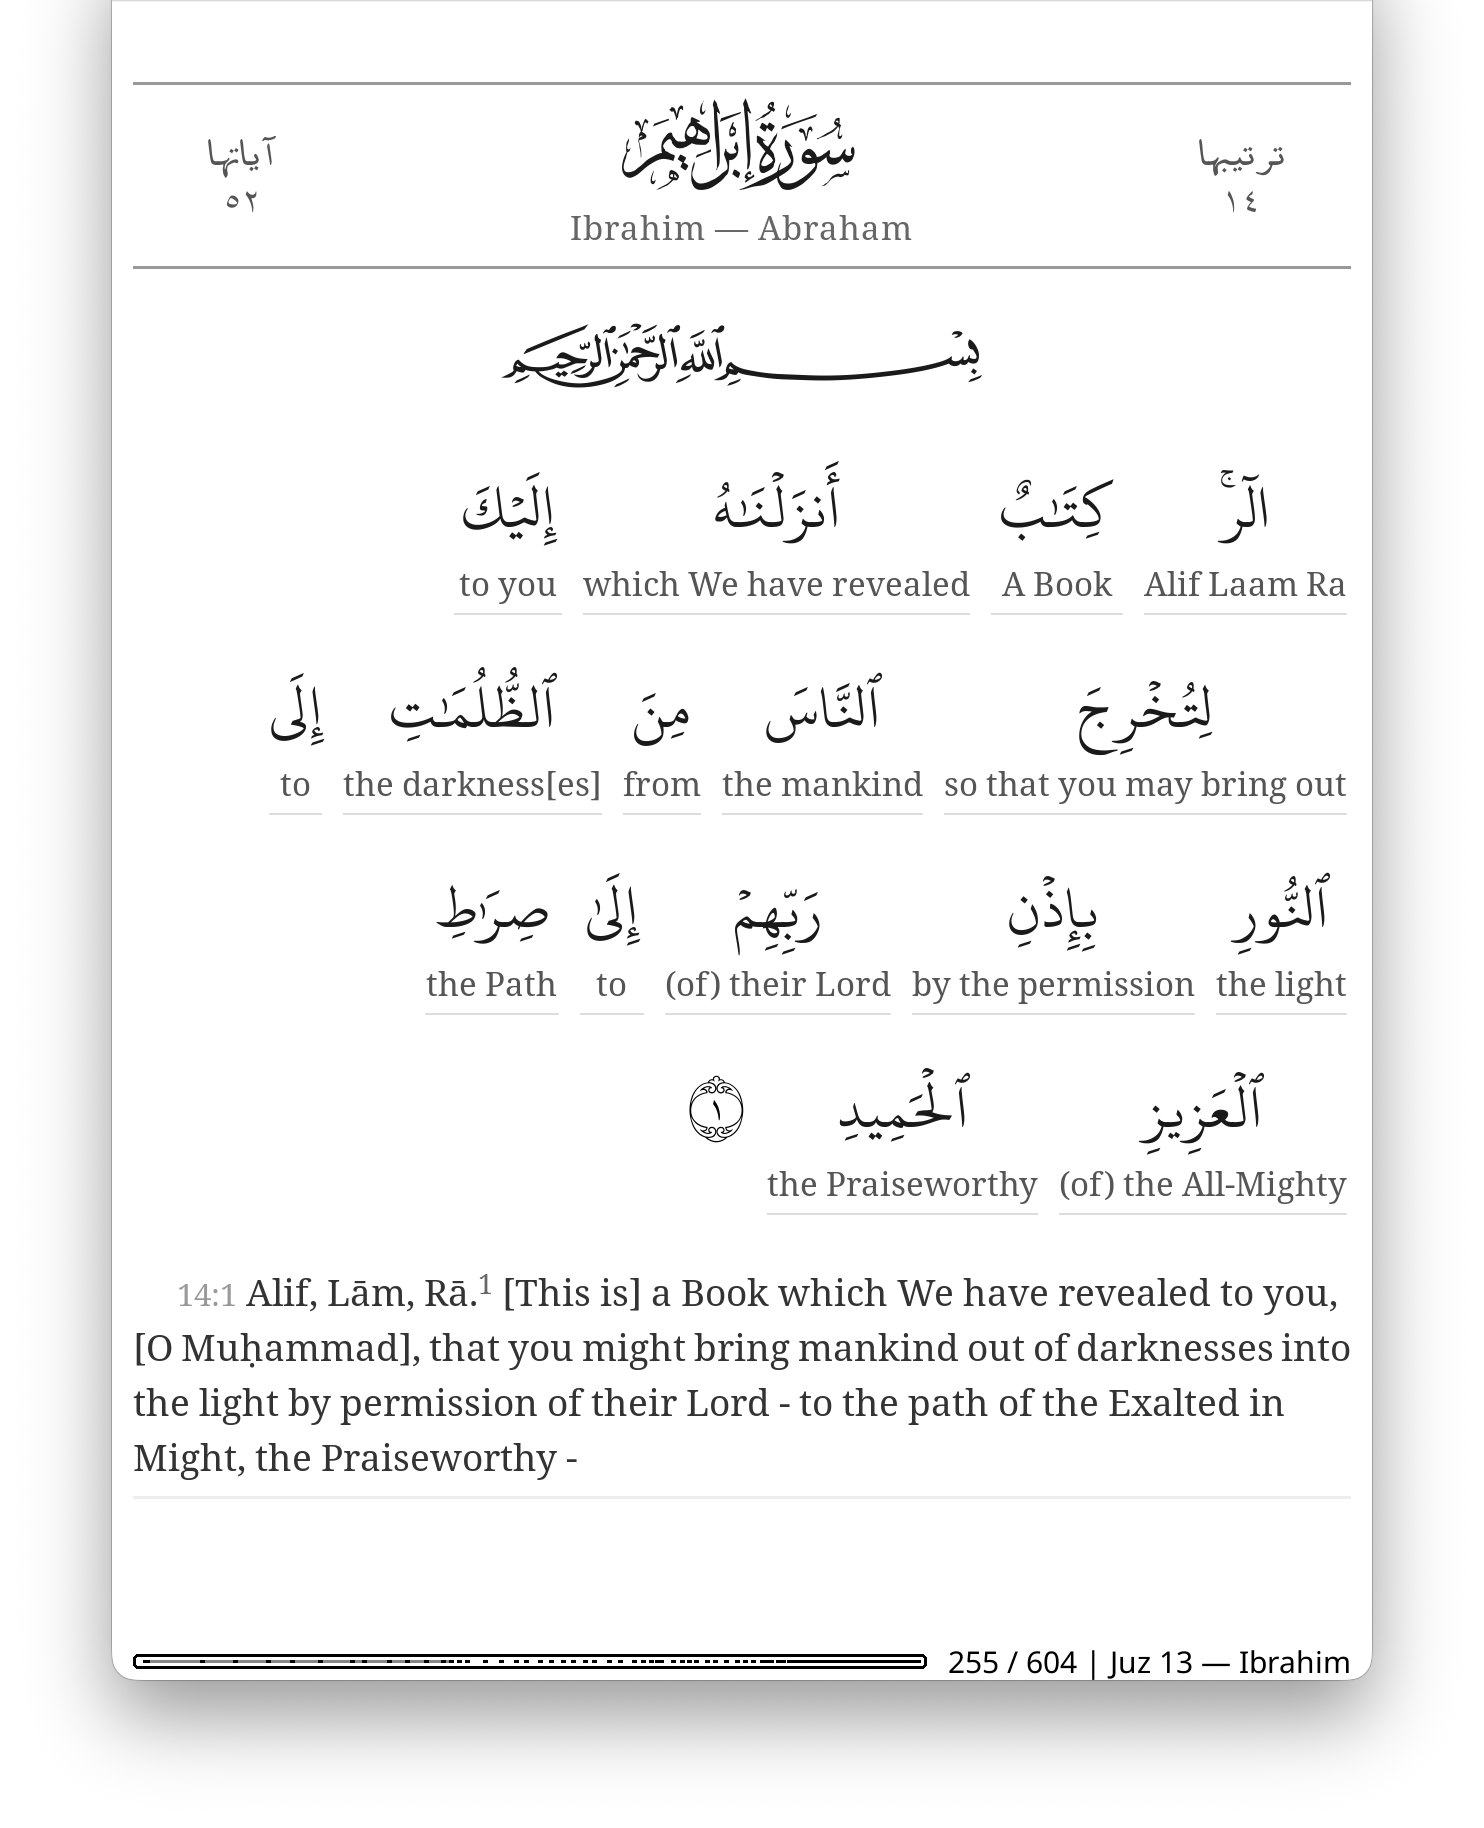
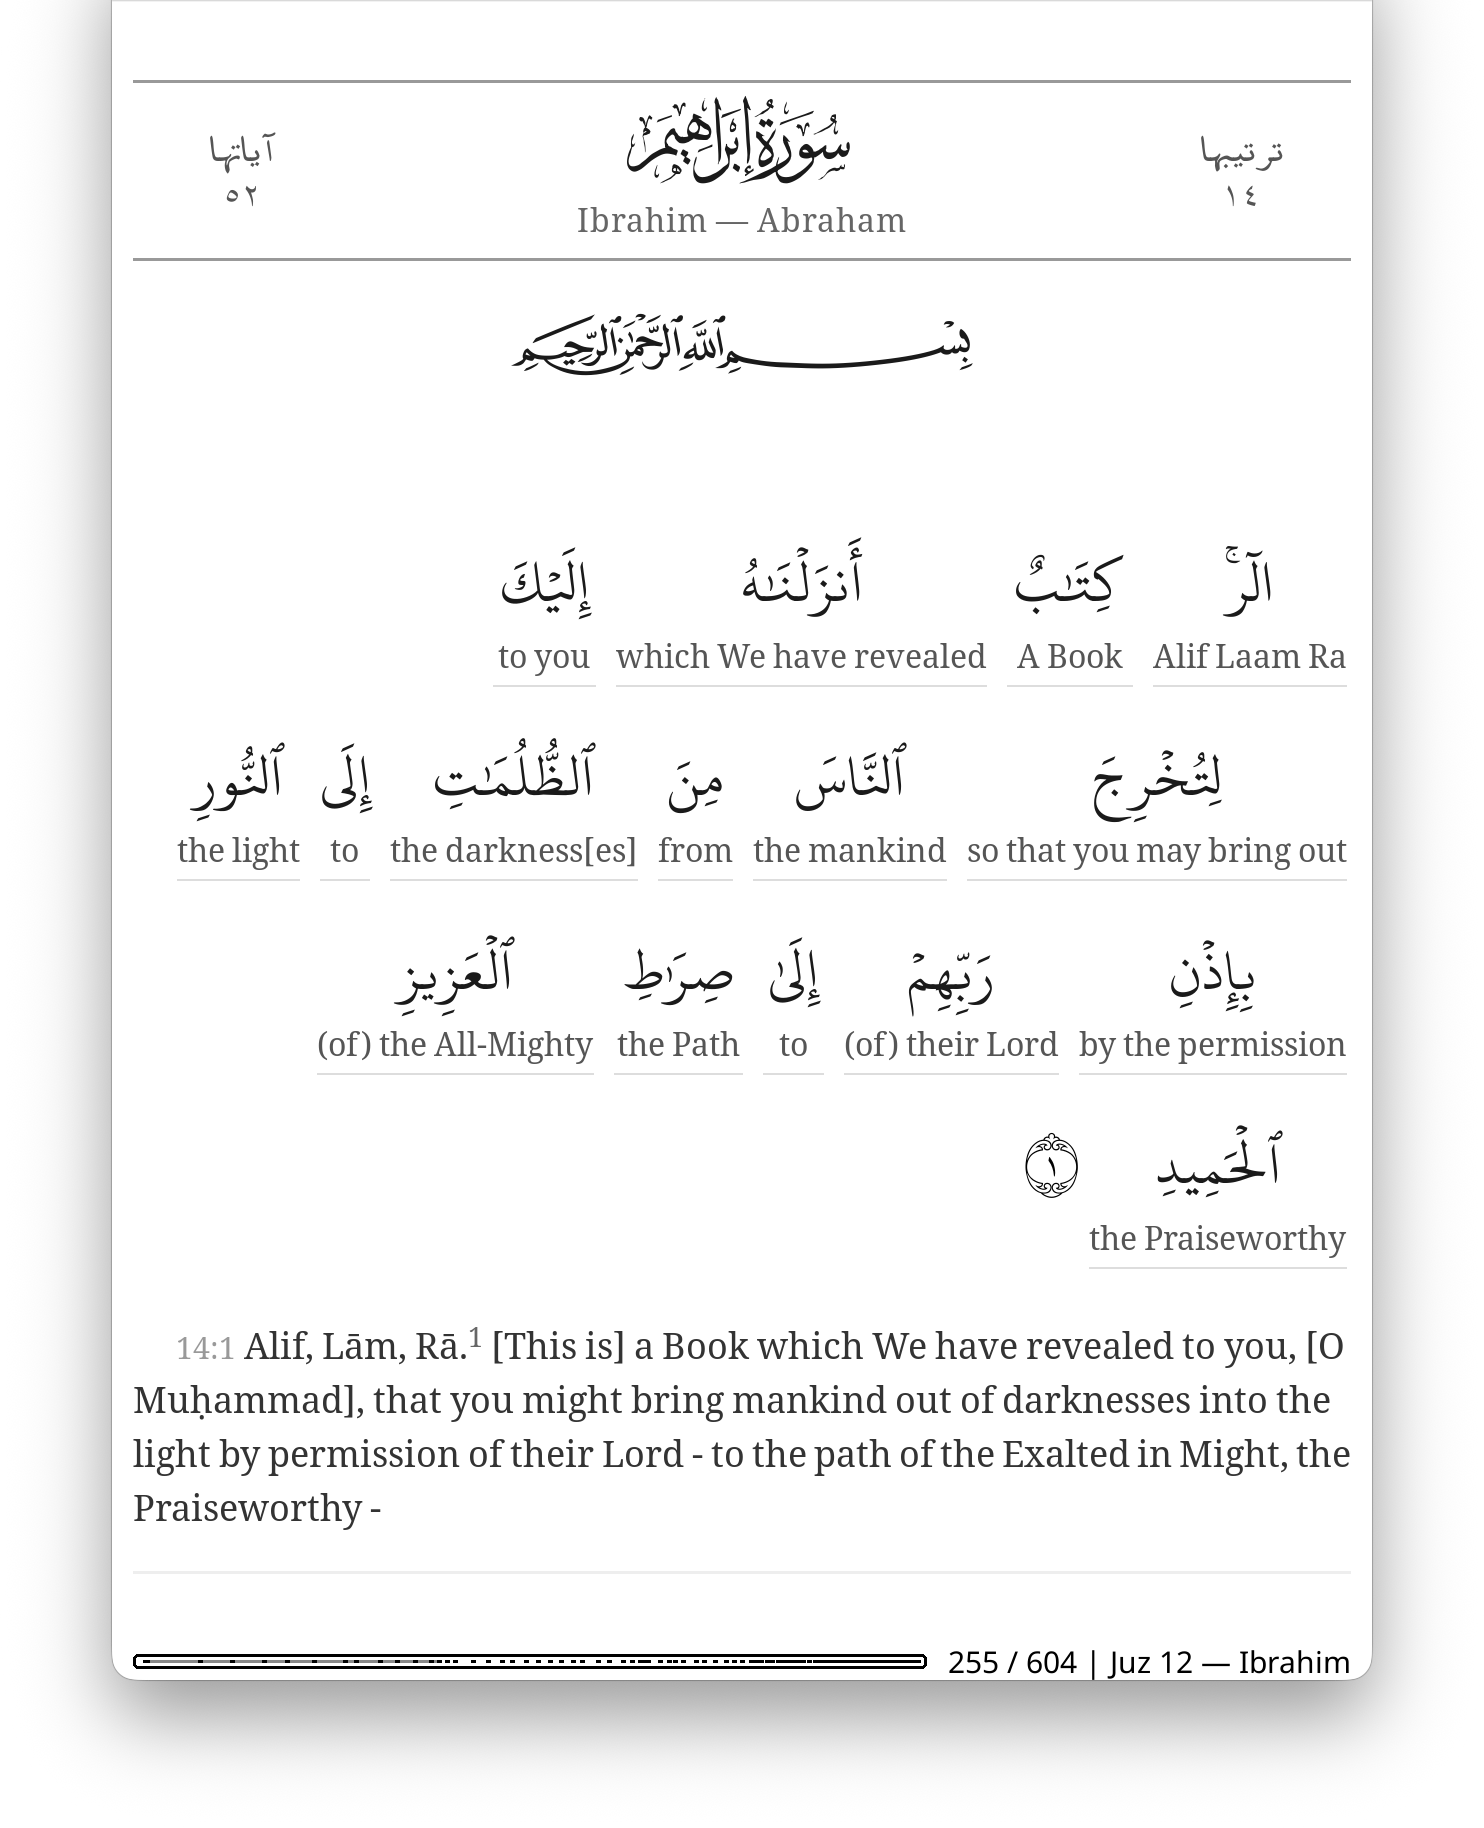
screens

diff --git a/README.md b/README.md
@@ -13,7 +13,7 @@
 <p align="center">
   <a href="screenshots/kahf-ar-no-margin-page.png"><img src="screenshots/kahf-ar-no-margin-page.png" width="250" alt="Arabic flowing text"></a>
   <a href="screenshots/kahf-ar-en.png"><img src="screenshots/kahf-ar-en.png" width="250" alt="Bilingual Arabic + English"></a>
-  <a href="screenshots/kahf-ar-dictionary-kitab.png"><img src="screenshots/kahf-ar-dictionary-kitab.png" width="250" alt="Dictionary popup"></a>
+  <a href="screenshots/ibrahim-wbw.png"><img src="screenshots/ibrahim-wbw.png" width="250" alt="Word-by-word interlinear"></a>
 </p>
 
 Pre-built and reproducible Quran EPUBs with correct Arabic rendering, in 42 languages. See the **[EPUB table](#epubs)** below or **[latest release](../../releases/latest)** to download. Best used in **[KOReader](https://koreader.rocks/)**. See [KOReader Settings](#koreader-settings) for ***essential*** setup. Offline [dictionary](#dictionary) and [KOReader plugin](#koreader-plugin) (juz status bar + grammar, tafsir & surah overview lookup) also available.
@@ -32,14 +32,14 @@ There is also an **Arabic-only** EPUB with no translation — continuous flowing
 
 Currently, all EPUBs use Riwayat Hafs 'an 'Asim, anchored to the Madinah Mushaf (1405 AH / 604 pages). More Riwayat coming إن شاء الله
 
-<details><summary>Screenshots — Arabic, bilingual, interactive, multilingual</summary>
+<details><summary>Screenshots — Arabic, bilingual, interactive, word-by-word, multilingual</summary>
 
 <p align="center">
   <a href="screenshots/kahf-ar-no-margin-page.png"><img src="screenshots/kahf-ar-no-margin-page.png" width="250" alt="Arabic full page"></a>
   <a href="screenshots/muminun-ar-mid-surah.png"><img src="screenshots/muminun-ar-mid-surah.png" width="250" alt="Arabic mid-surah"></a>
   <a href="screenshots/kahf-ar-en.png"><img src="screenshots/kahf-ar-en.png" width="250" alt="Bilingual Arabic + English"></a>
   <a href="screenshots/arrad-pop-up-trans-eng-sahih.png"><img src="screenshots/arrad-pop-up-trans-eng-sahih.png" width="250" alt="Interactive surah start with popup"></a>
-  <a href="screenshots/baqara-bilingual-mid-surah.png"><img src="screenshots/baqara-bilingual-mid-surah.png" width="250" alt="Bilingual mid-surah"></a>
+  <a href="screenshots/fatiha-wbw.png"><img src="screenshots/fatiha-wbw.png" width="250" alt="Word-by-word English"></a>
   <a href="screenshots/chinese-biling.png"><img src="screenshots/chinese-biling.png" width="250" alt="Chinese bilingual"></a>
   <a href="screenshots/french-biling.png"><img src="screenshots/french-biling.png" width="250" alt="French bilingual"></a>
   <a href="screenshots/turkish-biling.png"><img src="screenshots/turkish-biling.png" width="250" alt="Turkish bilingual"></a>
